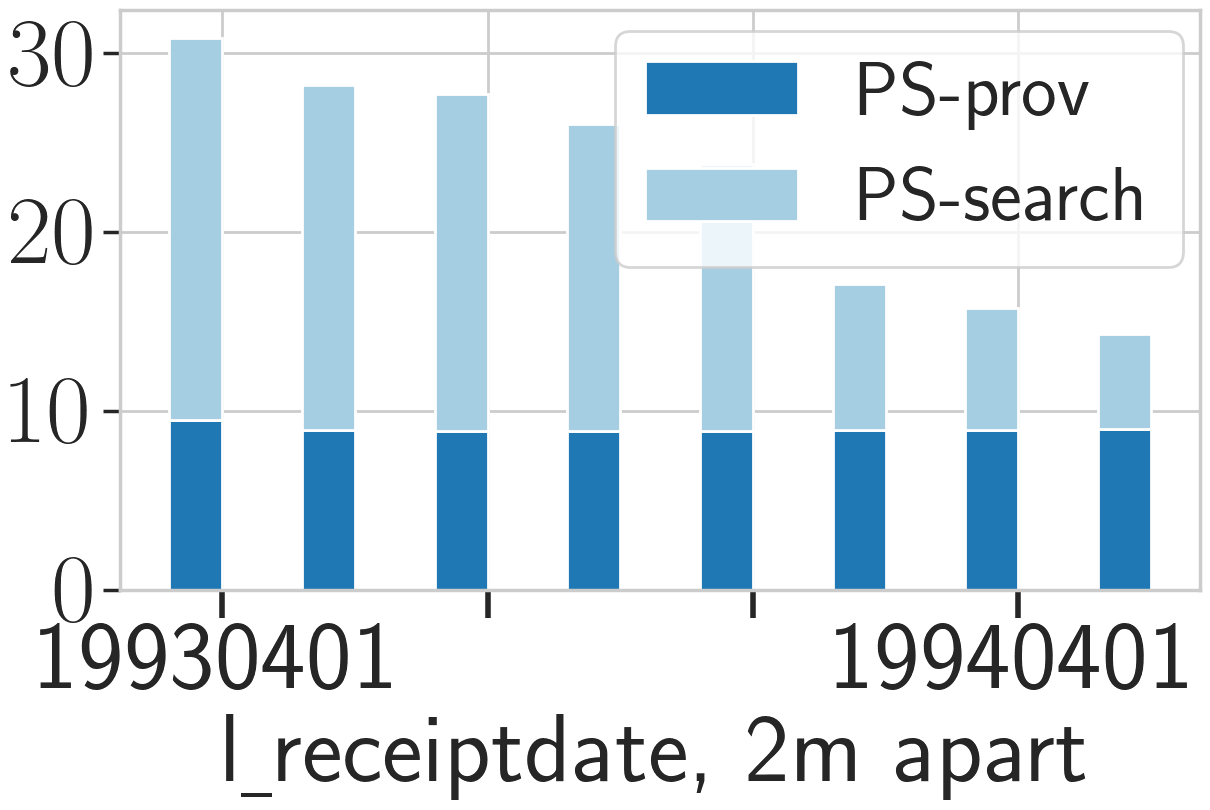
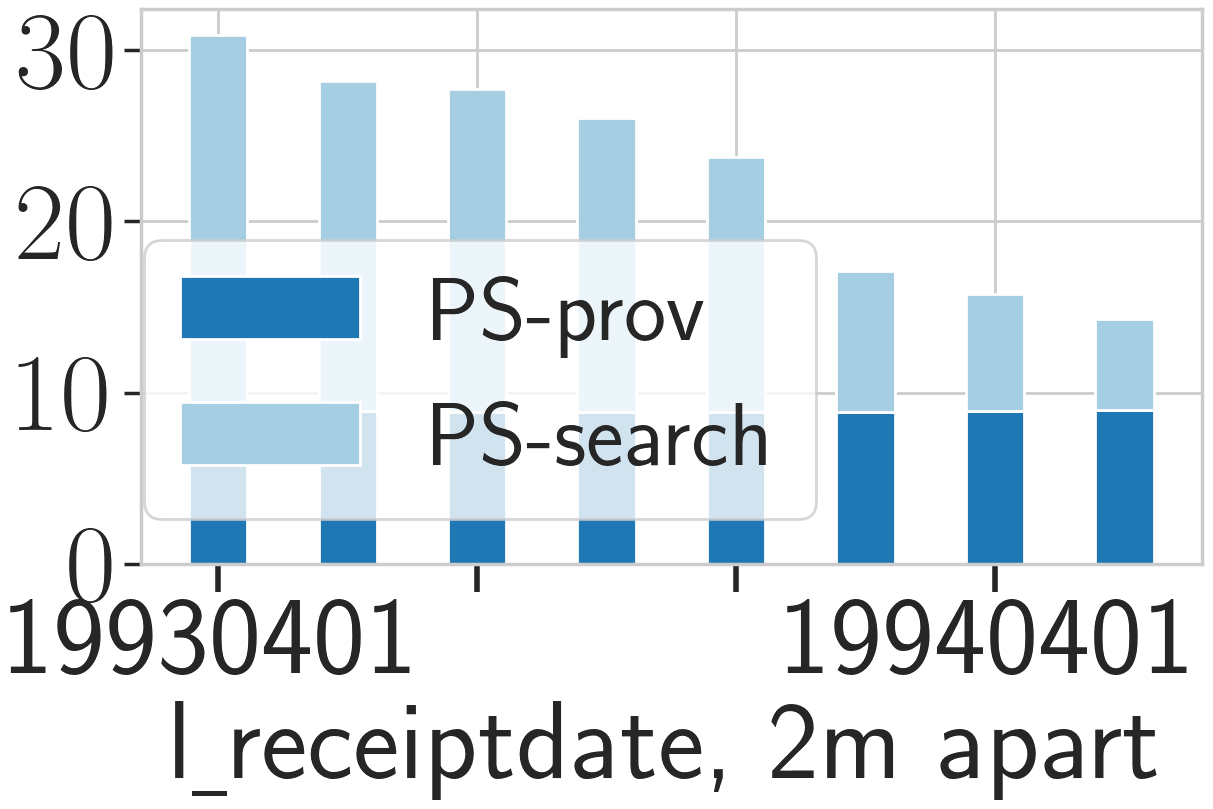
q12

Changed region(s): [[0.0, 0.0, 1.0, 0.9889]]

diff --git a/Experiment/TPCH/1G/query_selectivity/q12_refine/fig.py b/Experiment/TPCH/1G/query_selectivity/q12_refine/fig.py
@@ -64,7 +64,7 @@ def run(query, size, constraint):
     print(x_list, execution_timeps1, execution_timeps2)
 
     index = np.arange(len(execution_timeps1))
-    bar_width = 0.4
+    bar_width = 0.45
 
     fig, ax = plt.subplots(1, 1, figsize=f_size)
 
@@ -81,13 +81,13 @@ def run(query, size, constraint):
     # plt.bar(index + bar_width, execution_timebl2, bar_width, bottom=execution_timebl1,
     #         color=color[3], label=label[3])
 
-    plt.xticks(np.arange(0, 8, 2) + bar_width/2, x_list, rotation=0, fontsize=70)
-    plt.yticks(fontsize=70, weight='bold')
+    plt.xticks(np.arange(0, 8, 2), x_list, rotation=0, fontsize=80)
+    plt.yticks(fontsize=80, weight='bold')
 
-    plt.xlabel(r'l\underline{ }receiptdate, 2m apart')
-    # plt.ylabel('Running time (s)')
-    # plt.legend(loc='upper right', bbox_to_anchor=(1.03, 1.05))
-    plt.legend(loc='upper right', bbox_to_anchor=(1.02, 1.03), fontsize=55)
+    plt.xlabel(r'l\underline{ }receiptdate, 2m apart', fontsize=80, weight='bold')
+    # plt.legend(loc='upper right', bbox_to_anchor=(1.04, 1.07), fontsize=55)
+    plt.legend(loc='lower left', bbox_to_anchor=(-0.04, 0), fontsize=65)
+
     plt.tight_layout()
     fig_path = "query_selectivity_q" + str(query) + "_" + size + "_" + constraint + ".png"
 
